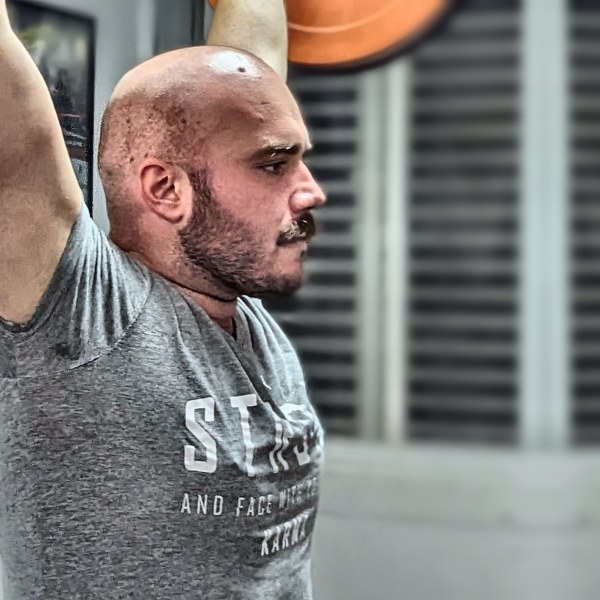
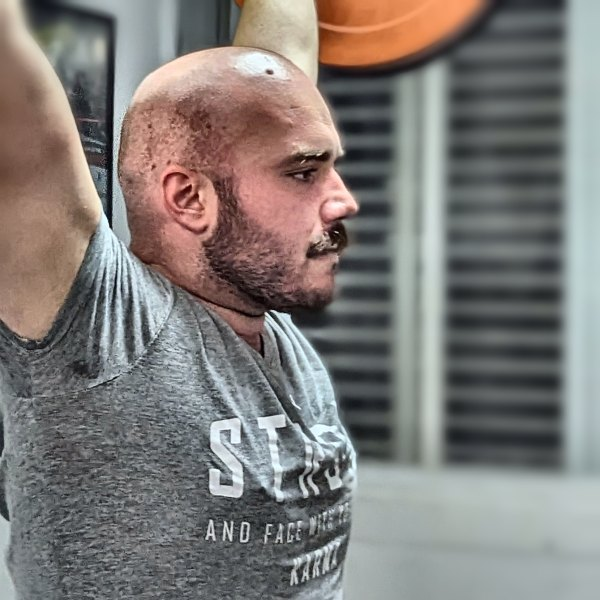
fix(gym): zoom Ohad +5%, recenter Yuval, stack TrialCallout button
- Ohad photo zoomed ~5% (head not cut), Yuval re-matched to it (eye-line,
  head size) and recentered so his head sits balanced instead of leaving a
  large empty area in front of his face.
- TrialCallout button now stacks below the text (flex column) instead of
  floating vertically centered against the tall paragraph.

diff --git a/expo-il/src/Gym.jsx b/expo-il/src/Gym.jsx
@@ -63,11 +63,10 @@ export default function Gym() {
       <style>{`
         .gym-section { padding: 64px 24px; max-width: 1100px; margin: 0 auto; }
         .gym-2col { display: grid; grid-template-columns: minmax(0, 1fr) minmax(0, 1.4fr); gap: 1px; }
-        .gym-trial { display: grid; grid-template-columns: minmax(0, 1fr) auto; gap: 24px; align-items: center; }
+        .gym-trial { display: flex; flex-direction: column; align-items: flex-start; gap: 18px; }
         @media (max-width: 720px) {
           .gym-section { padding: 44px 18px; }
           .gym-2col { grid-template-columns: 1fr; }
-          .gym-trial { grid-template-columns: 1fr; gap: 18px; }
         }
       `}</style>
 
